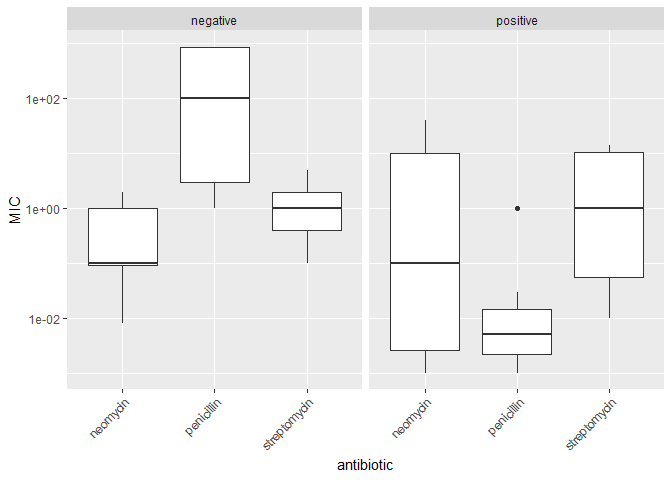
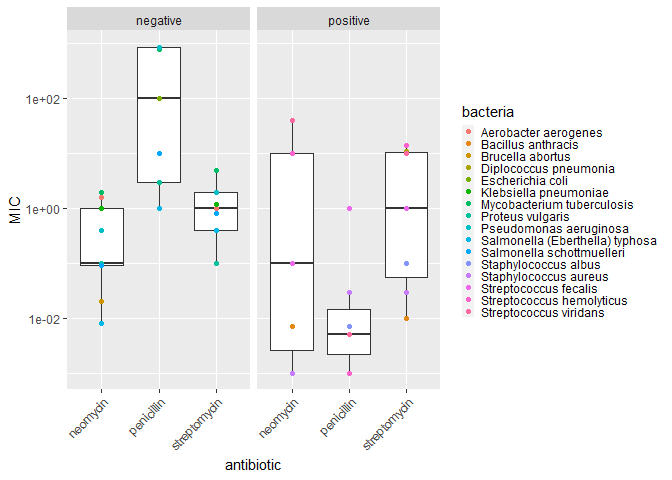
Add points to boxplot

diff --git a/challenges/c05-antibiotics-assignment.md b/challenges/c05-antibiotics-assignment.md
@@ -259,9 +259,13 @@ df_antibiotics %>%
   
   ggplot(aes(antibiotic, MIC)) +
   geom_boxplot() +
+  geom_point(aes(color = bacteria)) +
   scale_y_log10() +
   facet_wrap(~ gram) +
-  theme(axis.text.x = element_text(angle = 45, vjust = 1, hjust=1))
+  theme(
+    axis.text.x = element_text(angle = 45, vjust = 1, hjust=1),
+    legend.key.size = unit(0.3, 'cm')
+  )
 ```
 
 ![](c05-antibiotics-assignment_files/figure-gfm/q1.4-1.png)<!-- -->
@@ -326,10 +330,24 @@ and in 1984 *Streptococcus fecalis* was renamed *Enterococcus fecalis*
 > Why was *Diplococcus pneumoniae* was renamed *Streptococcus
 > pneumoniae*?
 
-*Observations* - What is your response to the question above? - (Write
-your response here) - Which of your visuals above (1 through 5) is
-**most effective** at helping to answer this question? - (Write your
-response here) - Why? - (Write your response here)
+*Observations* - What is your response to the question above? -
+*Diplococcus pneumoniae* exhibits similar MIC values to the
+*Streptococcus* bacteria, with the exception of *Streptococcus fecalis*.
+Specifically, for neomycin, each of the bacteria exhibit MIC values
+around 1e+01. For penicillin, the bacteria exhibit MIC values around
+1e-02. Finally, for streptomycin, the bacteria exhibit MIC values around
+1e+01. Consequently, the similarities between the MIC values for
+*Diplococcus pneumoniae* and the *Streptococcus* bacteria indicate that
+*Diplococcus pneumoniae* should actually fall within the *Streptococcus*
+genus. - Which of your visuals above (1 through 5) is **most effective**
+at helping to answer this question? - visual 2 - Why? - Visual 2 enables
+a quick comparison of how the bacteria are affected by the antibiotics.
+The individual graphs for each bacteria make it easier to compare across
+bacteria as the graphs are not cluttered and the axes contain the same
+ranges. Thus, it is easy to see how *Diplococcus pneumoniae* and the
+*Streptococcus* bacteria individually react to the antibiotics and
+perform a comparison, whilst also comparing how this differs from the
+other included bacteria.
 
 # References
 
